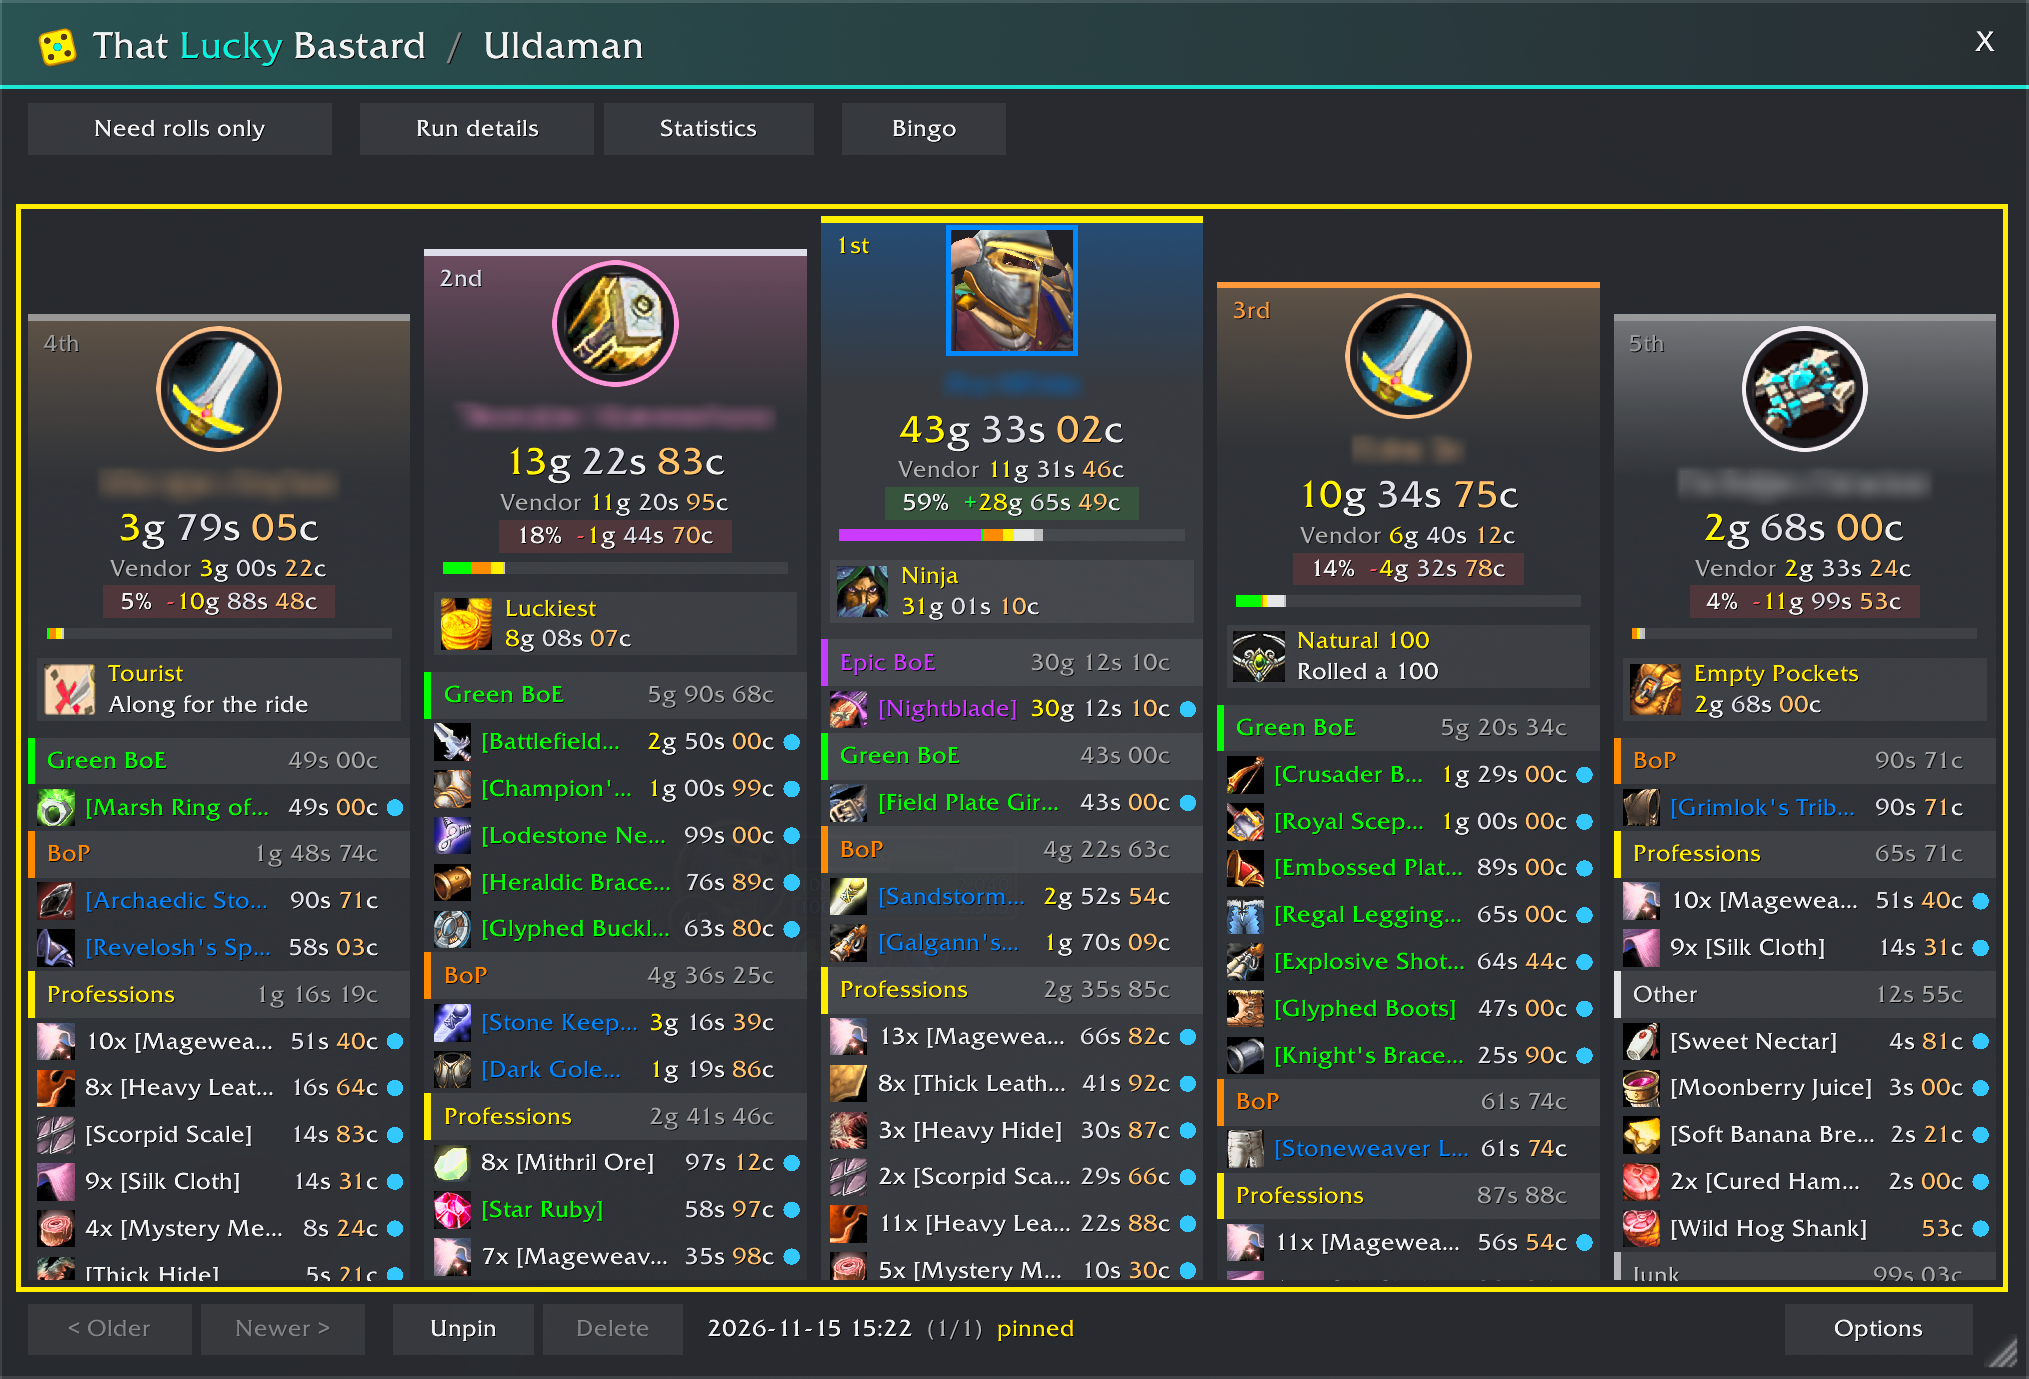
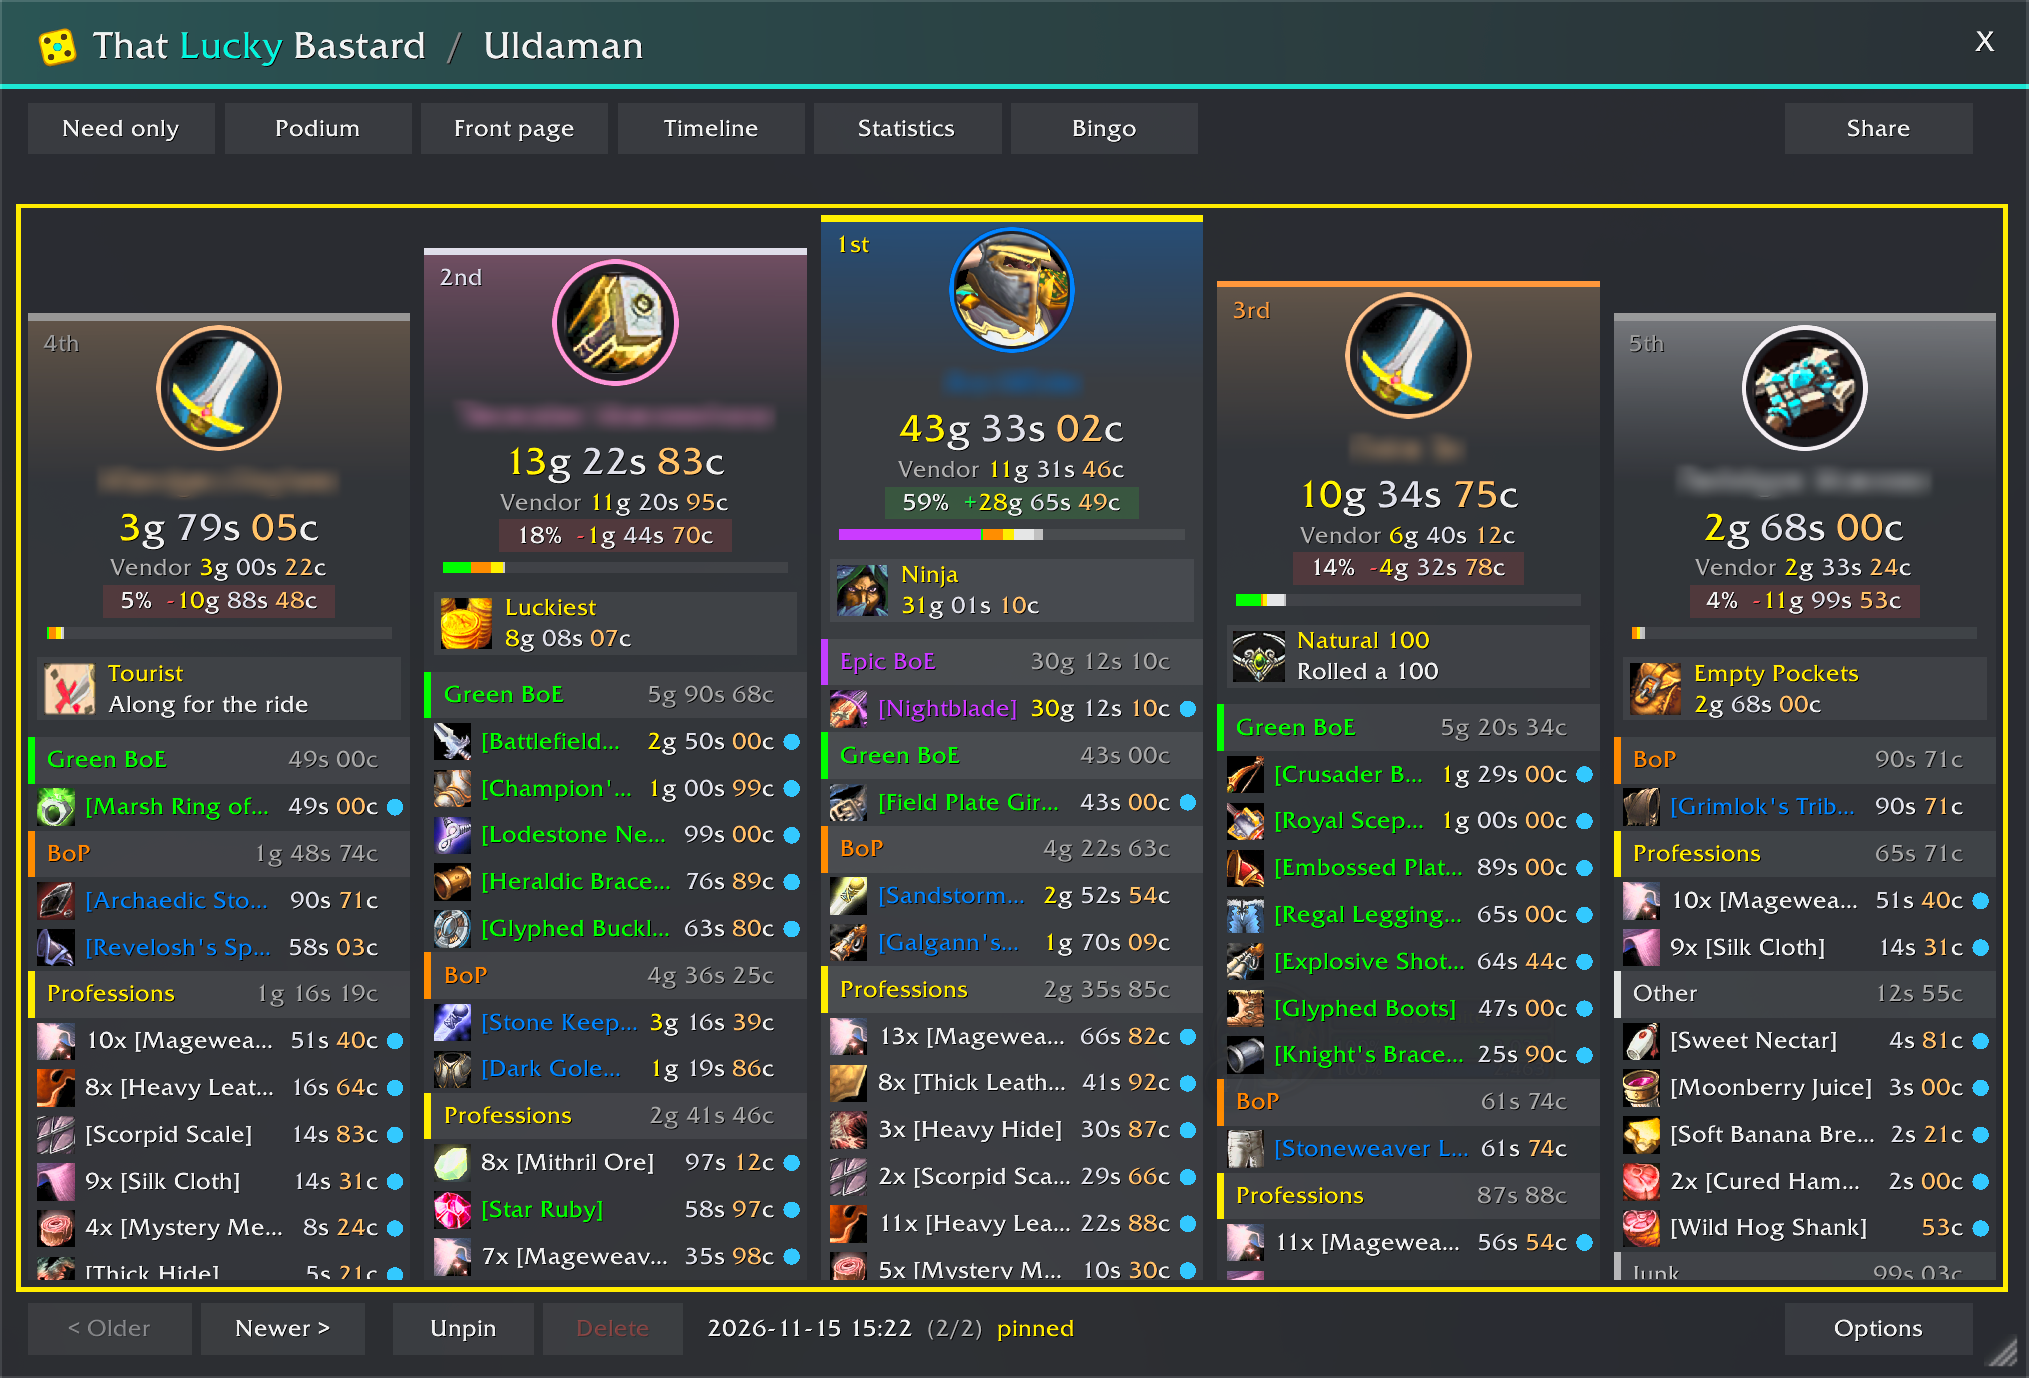
New screenshots of every window; addon list text
- The breakdown screenshot shows the new top row.
- A gallery under "What you get": the podium, the front page, the
  timeline, the statistics and the share window. Players' names are
  blurred.
- The addon list text: "Private unless you share a run" (it said
  "Shown to you alone", no longer true with sharing).

diff --git a/README.md b/README.md
@@ -18,6 +18,11 @@ It records what every player in your group loots, puts a gold value on it, and s
 - **While you play:** notices for valuable loot and familiar faces, one line in player and item tooltips, and a private loot bingo card.
 - **Sharing:** post a run as a link in chat, or copy it as a code to paste anywhere. Players with the addon open it.
 
+| ![The podium](https://raw.githubusercontent.com/Dreskn/ThatLuckyBastard/main/.previews/podium.png) | ![The front page](https://raw.githubusercontent.com/Dreskn/ThatLuckyBastard/main/.previews/paper.png) |
+| --- | --- |
+| ![The timeline](https://raw.githubusercontent.com/Dreskn/ThatLuckyBastard/main/.previews/timeline.png) | ![Statistics: dungeons](https://raw.githubusercontent.com/Dreskn/ThatLuckyBastard/main/.previews/stats.png) |
+| ![Sharing a run](https://raw.githubusercontent.com/Dreskn/ThatLuckyBastard/main/.previews/share.png) | |
+
 ## How loot is valued
 
 - Vendor prices come from the game. Auction prices come from [Auctionator](https://www.curseforge.com/wow/addons/auctionator) or TradeSkillMaster, if you have one of them.
